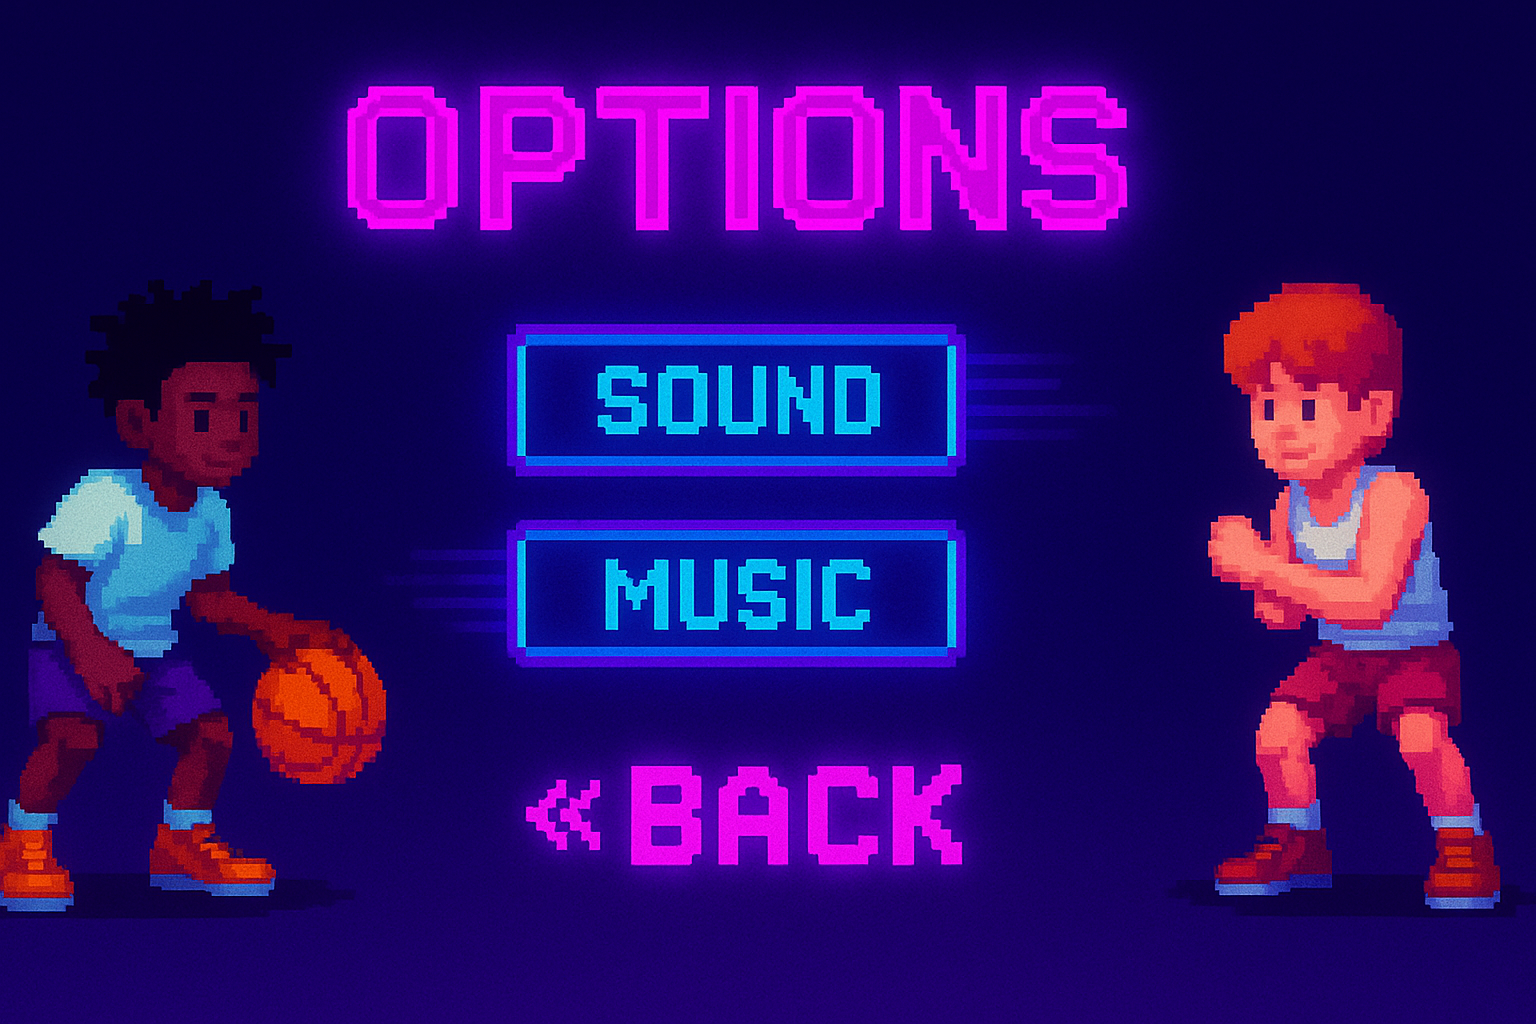
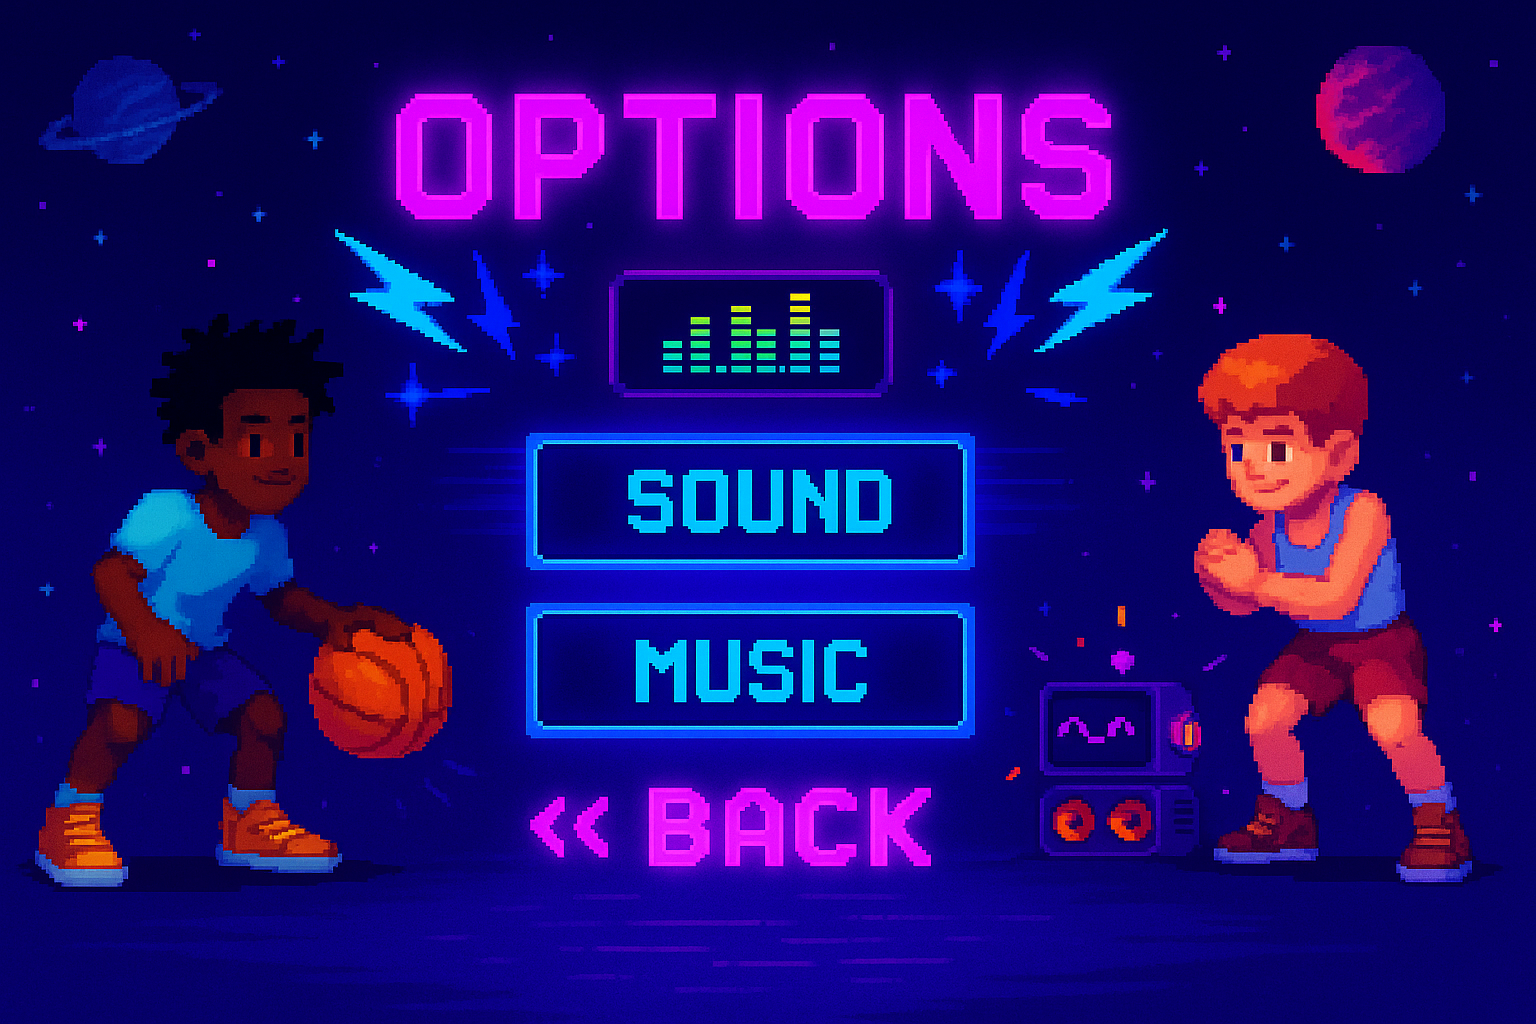
Nouveau nouveau

diff --git a/src/core/game.py b/src/core/game.py
@@ -12,6 +12,7 @@ from src.entities.panier import Panier
 from src.entities.arrow import Arrow
 from src.ui.menu_screen import MenuScreen
 from src.ui.ecran import Ecran
+from src.ui.option_screen import OptionScreen
 
 
 class Game:
@@ -37,6 +38,7 @@ class Game:
         self.arrow = Arrow()
         self.panier = Panier()
         self.menu = MenuScreen()
+        self.option_screen = OptionScreen()
 
         # État du jeu
         self.ball_list = []
@@ -49,6 +51,7 @@ class Game:
         self.start_time = None
 
         self.option = False
+        self.choix_joueur = False
 
 
         pygame.display.flip()
@@ -57,6 +60,23 @@ class Game:
     def run(self):
         running = True
         while running:
+
+            if self.option:
+                sound_btn_rect, music_btn_rect, back_btn_rect = self.option_screen.draw(self.screen)
+                pygame.display.flip()
+                for event in pygame.event.get():
+                    if event.type == pygame.QUIT or (event.type == pygame.KEYDOWN and event.key == pygame.K_ESCAPE):
+                        running = False
+                    elif event.type == pygame.MOUSEBUTTONDOWN:
+                        if sound_btn_rect.collidepoint(event.pos):
+                            print("Sound button clicked")
+                        elif music_btn_rect.collidepoint(event.pos):
+                            print("Music button clicked")
+                        elif back_btn_rect.collidepoint(event.pos):
+                            self.option = False
+                self.clock.tick(60)
+                continue
+
             if not self.game_started:
                 jouer_btn, options_btn, quitter_btn = self.menu.draw_start_screen(self.screen, SCREEN_WIDTH, SCREEN_HEIGHT)
                 pygame.display.flip()
@@ -71,10 +91,11 @@ class Game:
                             self.player = Player(random.randint(100, 3 * SCREEN_WIDTH // 4), PLAYER_Y)
                         elif options_btn.collidepoint(event.pos):
                             self.option = True
-                            print("Options cliqué (à implémenter)")
                         elif quitter_btn.collidepoint(event.pos):
                             pygame.quit()
                             exit()
+
+
 
             if self.game_over:
                 btn = self.menu.draw_game_over(self.screen, SCREEN_WIDTH, SCREEN_HEIGHT, self.score, self.high_scores)

diff --git a/src/ui/ecran.py b/src/ui/ecran.py
@@ -1,10 +1,9 @@
 import pygame
 import time
+
+from src.utils import *
 import os
 
-base_path = os.path.abspath(os.path.join(os.path.dirname(__file__), "../../"))
-loading_path = os.path.join(base_path, "assets", "image", "ecran_chargement2.png")
-loading_image = pygame.image.load(loading_path)
 
 class Ecran:
     def __init__(self, screen):
@@ -13,10 +12,12 @@ class Ecran:
         self.WIDTH, self.HEIGHT = screen.get_size()
 
     def show_loading_screen(self):
-        loading_image = pygame.image.load(loading_path)
+        loading_image = pygame.image.load("assets/image/ecran_chargement.png")
         loading_image = pygame.transform.scale(loading_image, (self.WIDTH, self.HEIGHT))
         start_time = time.time()
-        duration = 1  # secondes
+        duration = 3 # secondes
+
+        font = pygame.font.SysFont("arial", 30)
 
         while time.time() - start_time < duration:
             for event in pygame.event.get():
@@ -28,15 +29,19 @@ class Ecran:
                         pygame.quit()
                         exit()
 
+
             self.screen.fill((0, 0, 0))
             self.screen.blit(loading_image, (0, 0))
 
             progress = (time.time() - start_time) / duration
-            progress_width = int(400 * progress)
+            progress_width = int(515 * progress)
 
+
+            pos = pygame.mouse.get_pos()
+            afficher_texte(self.screen, font, f'pos : {pos[0],pos[1]}', (0,0), "white")
             # barre de chargement
-            pygame.draw.rect(self.screen, (255, 255, 255), (220, 575, 400, 20), 2)
-            pygame.draw.rect(self.screen, (255, 165, 0), (220, 575, progress_width, 20))
+            pygame.draw.rect(self.screen, (255, 255, 255), (270, 515, 515, 15), 2)
+            pygame.draw.rect(self.screen, (0, 255, 255), (270, 515, progress_width, 15))
 
             pygame.display.flip()
             self.clock.tick(60)

diff --git a/src/ui/option_screen.py b/src/ui/option_screen.py
@@ -1,3 +1,33 @@
 import pygame
+from pygame import mouse
 
-Class
+from src.core.config import *
+from src.core.game import *
+from src.utils import afficher_texte
+
+
+class OptionScreen:
+    def __init__(self):
+        self.background = pygame.image.load("assets/image/option_screen.png")  # ou le nom correct
+        self.background = pygame.transform.scale(self.background, (SCREEN_WIDTH, SCREEN_HEIGHT))
+
+        self.font = pygame.font.SysFont("arial", 20)
+
+        # Rects cliquables (invisibles)
+        self.sound_btn = pygame.Rect(350, 260, 275, 70)
+        self.music_btn = pygame.Rect(350, 360, 275, 65)
+        self.back_btn = pygame.Rect(340, 460, 280, 50)  # ajuste selon la vraie position du bouton << BACK
+
+    def draw(self,screen):
+
+        img_option = self.background
+        screen.blit(img_option, (0, 0))
+
+        sound_btn_rect = self.sound_btn
+        music_btn_rect = self.music_btn
+        back_btn_rect = self.back_btn
+
+        pos = mouse.get_pos()
+        afficher_texte(screen,self.font,f'pos : {pos[0]}, {pos[1]}',(0,0),'white')
+
+        return sound_btn_rect, music_btn_rect, back_btn_rect

diff --git a/src/ui/menu_screen.py b/src/ui/menu_screen.py
@@ -14,20 +14,13 @@ class MenuScreen:
         self.menu_bg = pygame.image.load("assets/image/menu.png")
         self.menu_bg = pygame.transform.scale(self.menu_bg, (SCREEN_WIDTH, SCREEN_HEIGHT))
 
-        button_width = 280
-        button_height = 70
-        button_x = (1000 - button_width) // 2  # centré horizontalement
-
         self.btn_jouer = pygame.Rect(330, 220, 305, 65)
         self.btn_options = pygame.Rect(345, 305, 280, 50)
         self.btn_quitter = pygame.Rect(370, 380, 230, 45)
 
     def draw_start_screen(self, screen, width, height):
-        bg = pygame.image.load("assets/image/menu.png")
-        bg = pygame.transform.scale(bg, (SCREEN_WIDTH, SCREEN_HEIGHT))
+        bg = self.menu_bg.copy()
         screen.blit(bg, (0, 0))
-
-
 
         jouer_rect = self.btn_jouer
         options_rect = self.btn_options
